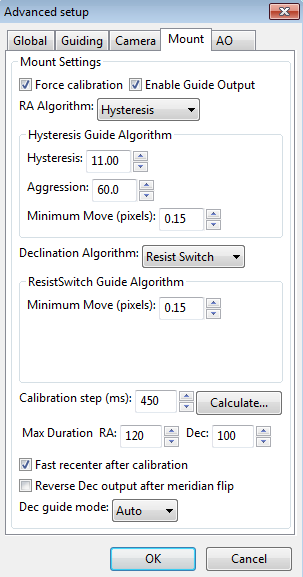
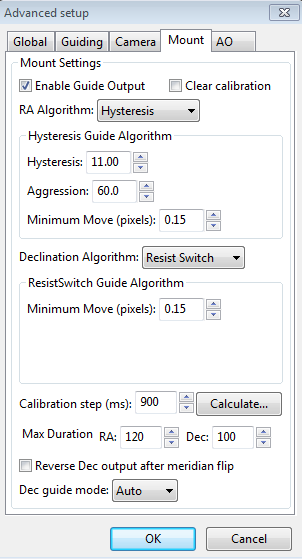
Updates to help files for clear_calibration changes

Changed region(s): [[0.0, 0.0, 1.0, 1.0]]

diff --git a/help/Tools.htm b/help/Tools.htm
@@ -53,9 +53,13 @@ successfully. &nbsp;The use of the calibration data has been described
 elsewhere (<a href="Basic_use.htm">Using PHD Guiding</a>),
 including &nbsp;options for restoring calibration data from an earlier
 time or "flipping" it after a meridian flip. &nbsp;You access these
-functions using&nbsp;the 'Tools' menu. &nbsp;One other
-calibration-related item is also shown there, namely the option to
-enter calibration data manually. &nbsp;You should use this only under
+functions using&nbsp;the 'Tools' menu. &nbsp;Two other
+calibration-related items are also shown there, namely the options to
+clear the current data or to enter calibration data manually. &nbsp;The
+"clear" option accomplishes the same thing as the 'Clear calibration'
+checkbox in the Advanced Dialog - it will force a recalibration
+whenever guiding is resumed. &nbsp;The 'Enter calibration data'
+option&nbsp;should be used&nbsp;only under
 very unusual circumstances and only if you're sure you know what you're
 doing; but it is available as a matter of completeness. &nbsp;If you
 click on the 'Enter calibration data' item, you'll see a dialog box
@@ -70,8 +74,7 @@ exposures while the primary imaging camera is downloading data.
 should click on&nbsp; the '<a name="Enable_Server"></a>Enable Server' option under the 'Tools'
 menu. &nbsp;The server interface has been reworked substantially in
 <span style="font-style: italic;">PHD2</span>, and it's now possible
-for an application to control most aspects of <span style="font-style:
-italic;">PHD2</span>'s guiding operations. &nbsp;Documentation for the
+for an application to control most aspects of <span style="font-style: italic;">PHD2</span>'s guiding operations. &nbsp;Documentation for the
 server API is available on
 the <a href="https://code.google.com/p/open-phd-guiding/w/list">PHD2
 Wiki</a>.<br><br><h3><a name="Drift_Align"></a>Drift Align</h3>Drift
@@ -99,10 +102,13 @@ magenta circle around the guide star. The circle indicates an upper
 limit on how far the guide star needs to move when azimuth is
 adjusted. (Initially, the circle may be too large to be visible on the
 screen, so you may not see it until your alignment gets closer.)<br>
-<br>
-Now click on the 'Adjust' button to halt guiding, then make a&nbsp;
-mechanical adjustment in azimuth. Watch the guide star as you make the adjustment, moving the guide star towards the magenta circle, but not beyond it.&nbsp;Once done, click on the 'drift'
-button again to repeat the measurement. If your adjustment was in the right direction and did not over-shoot, the Declination trendline will be closer to horizontal. &nbsp;Continue iterating in
+<br>Now click on the 'Adjust' button to halt guiding, then make a&nbsp;
+mechanical adjustment in azimuth. Watch the guide star as you make the
+adjustment, moving the guide star towards the magenta circle, but not
+beyond it.&nbsp;Once done, click on the 'drift'
+button again to repeat the measurement. If your adjustment was in the
+right direction and did not over-shoot, the Declination trendline will
+be closer to horizontal. &nbsp;Continue iterating in
 this way until you are satisfied with your azimuth accuracy. &nbsp;You
 can use the 'notes' field to record which way the drift line moves
 depending on how you make the adjustment. &nbsp;For example, you might

diff --git a/help/Advanced_settings.htm b/help/Advanced_settings.htm
@@ -206,8 +206,8 @@ separate section.<br>
 The remaining controls, the ones that are independent of the guiding
 algorithm selections, are described below. <br>
 <ul>
-<li>'<a name="Force_calibration"></a>Force calibration'
--&nbsp;tells <span style="font-style: italic;">PHD2</span>&nbsp; you want to force another calibration
+<li>'<a name="Clear_calibration"></a>Clear calibration'
+-&nbsp;tells <span style="font-style: italic;">PHD2</span>&nbsp; you want to clear the calibration data currently being used and re-calibrate
 before
 guiding is restarted. &nbsp;You might do this for a variety of
 reasons
